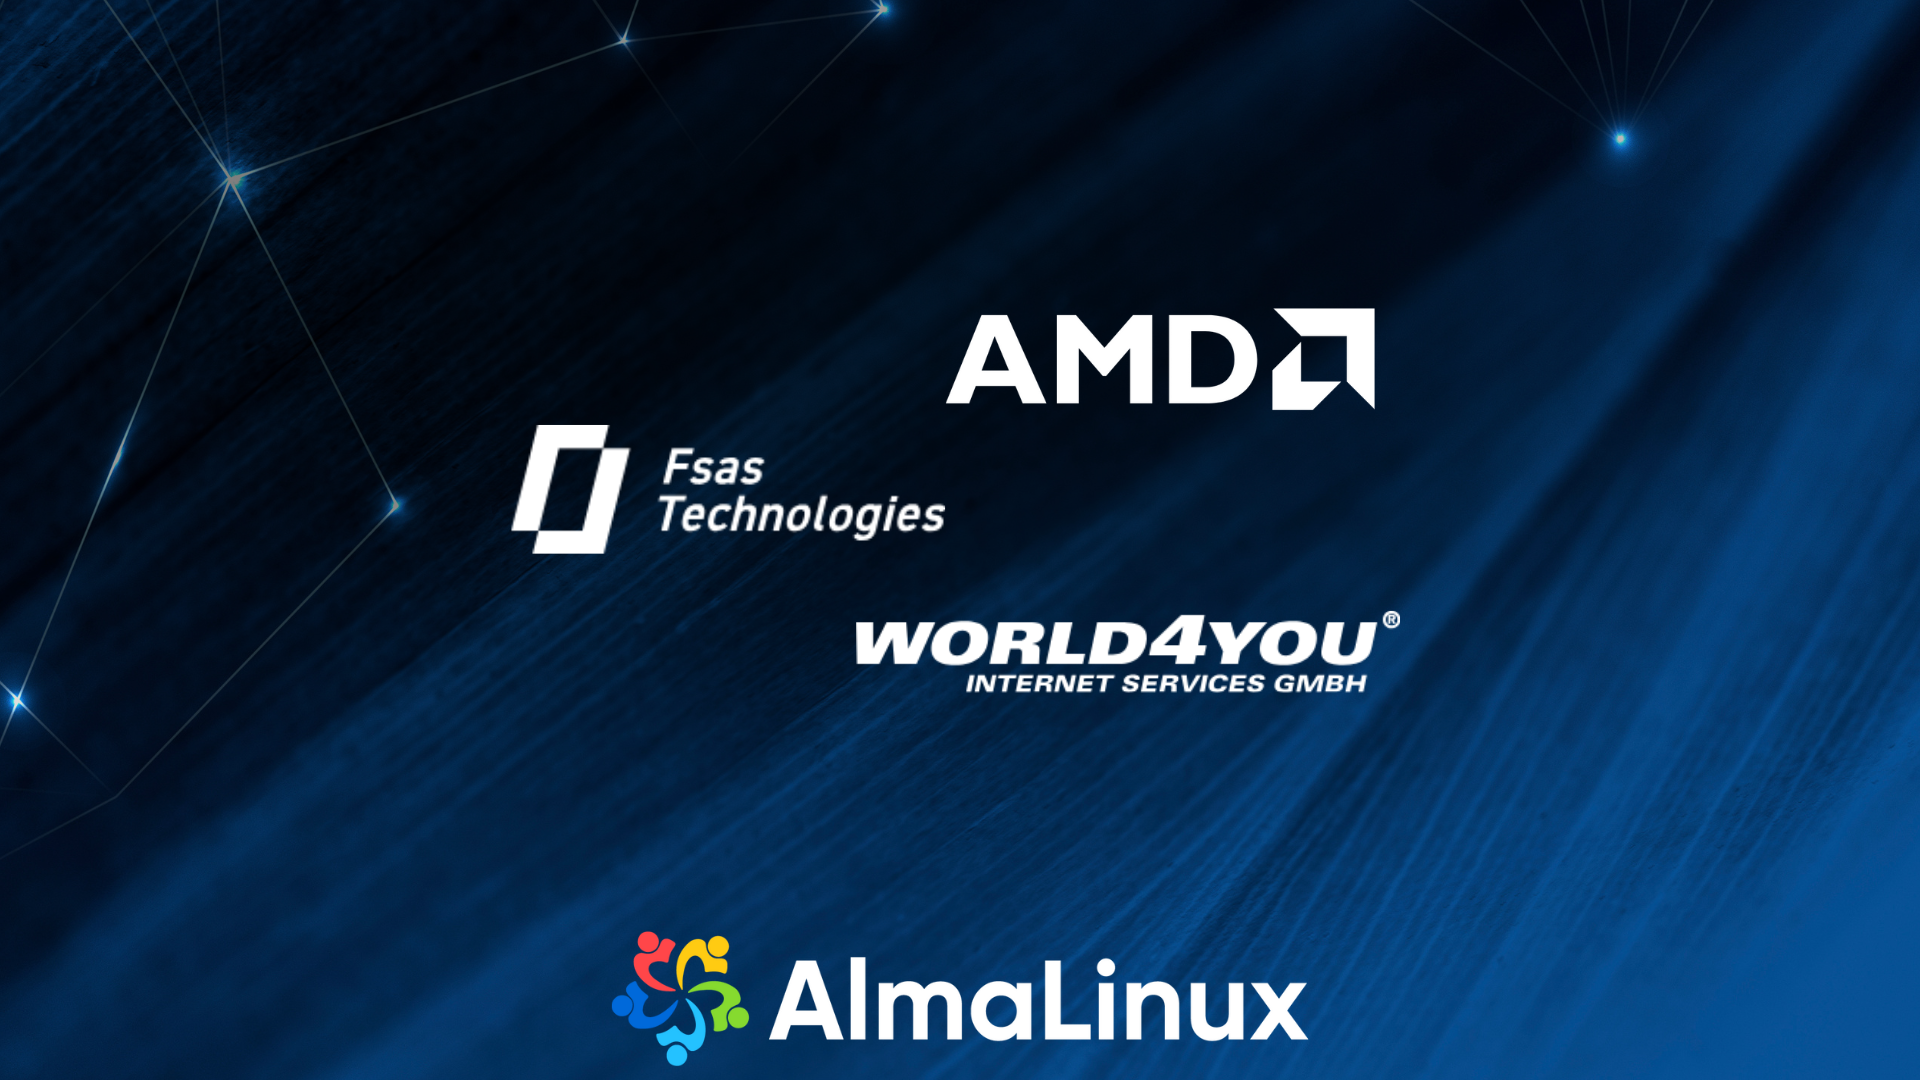
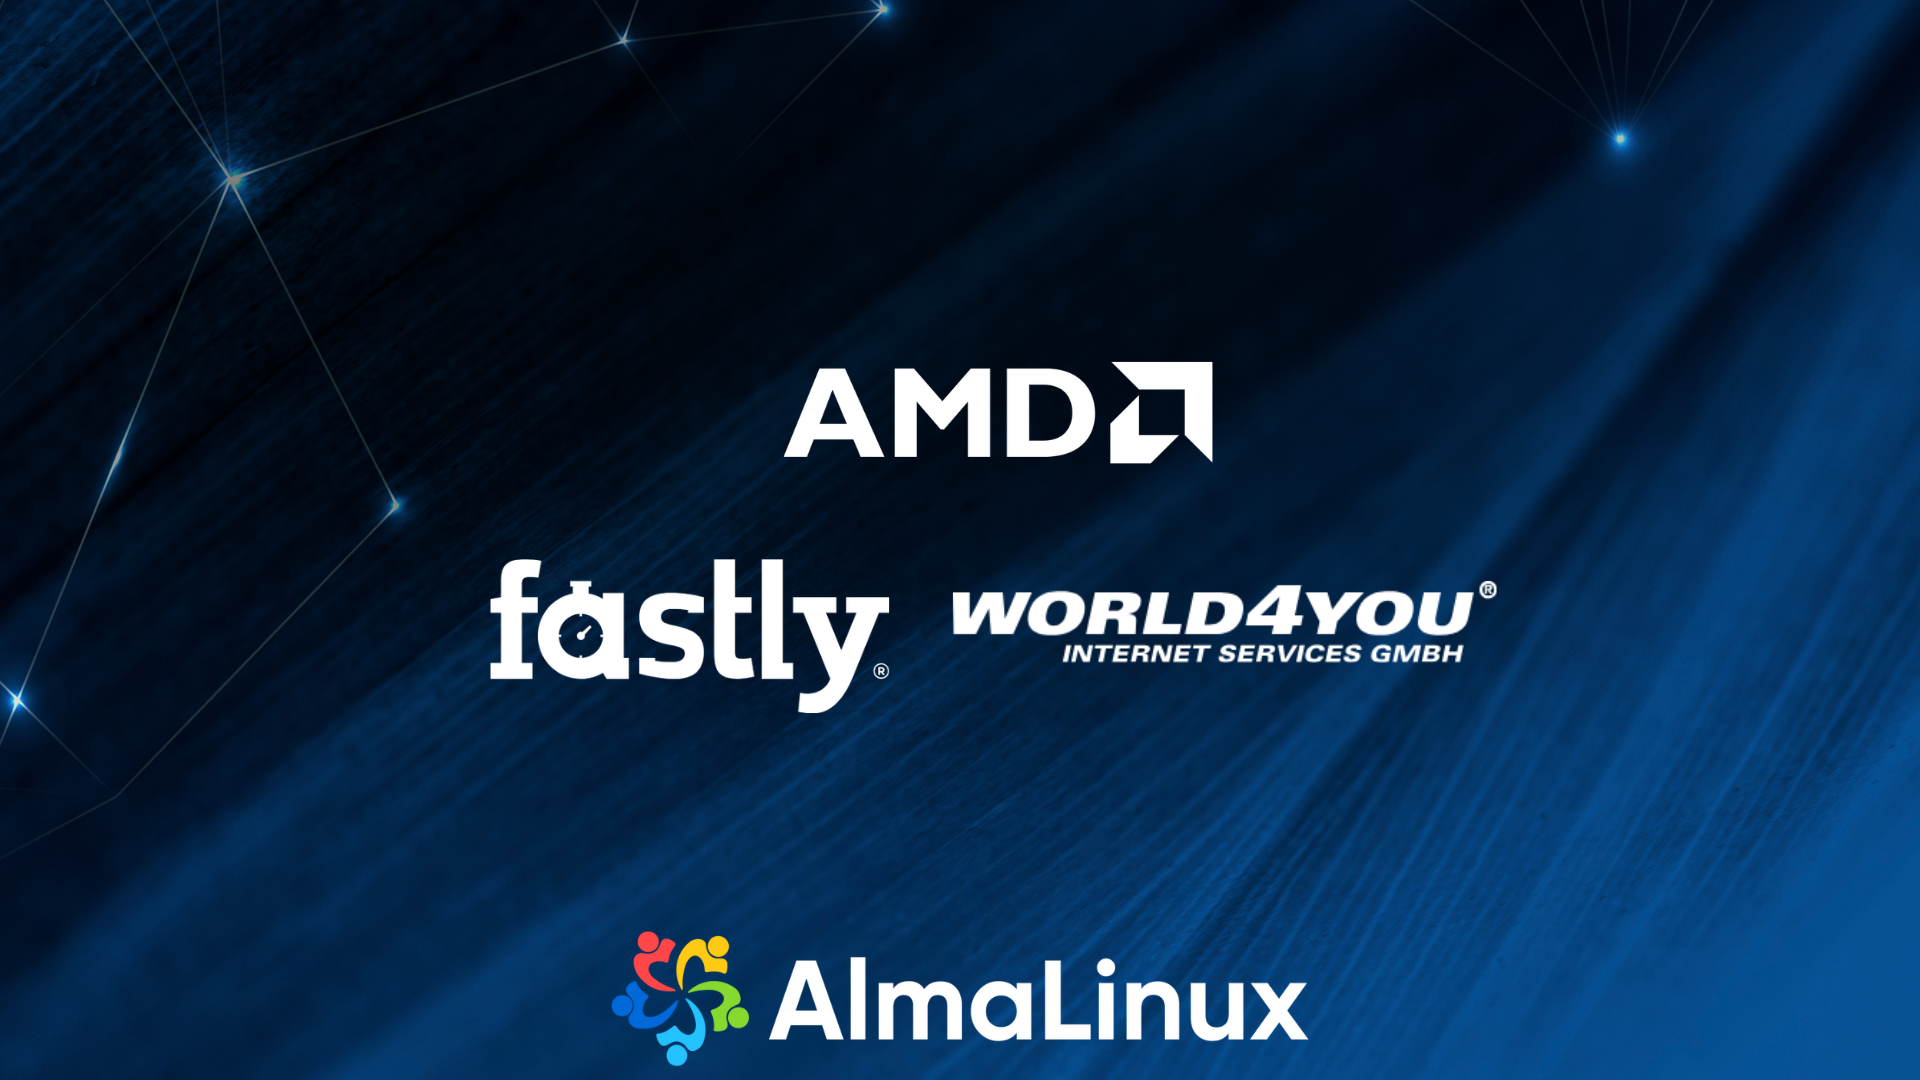
removing FSAS

Changed region(s): [[0.25, 0.3667, 0.7812, 0.6722], [0.4062, 0.275, 0.7188, 0.4278]]

diff --git a/content/blog/2024-11-11-welcome-october-sponsors.md b/content/blog/2024-11-11-welcome-october-sponsors.md
@@ -1,5 +1,5 @@
 ---
-title: "Announcing Silver Sponsor Members - Fastly, Fsas Technologies, AMD, world4you"
+title: "Announcing Silver Sponsor Members - Fastly, AMD, world4you"
 type: blog
 author: 
  name: "benny Vasquez"
@@ -9,7 +9,7 @@ date: '2024-11-11'
 images:
   - /blog-images/2024/oct_sponsors.png
 post:
-    title: "Announcing Silver Sponsor Members - Fastly, Fsas Technologies, AMD, world4you"
+    title: "Announcing Silver Sponsor Members - Fastly, AMD, world4you"
     image: /blog-images/2024/oct_sponsors.png
 ---
 
